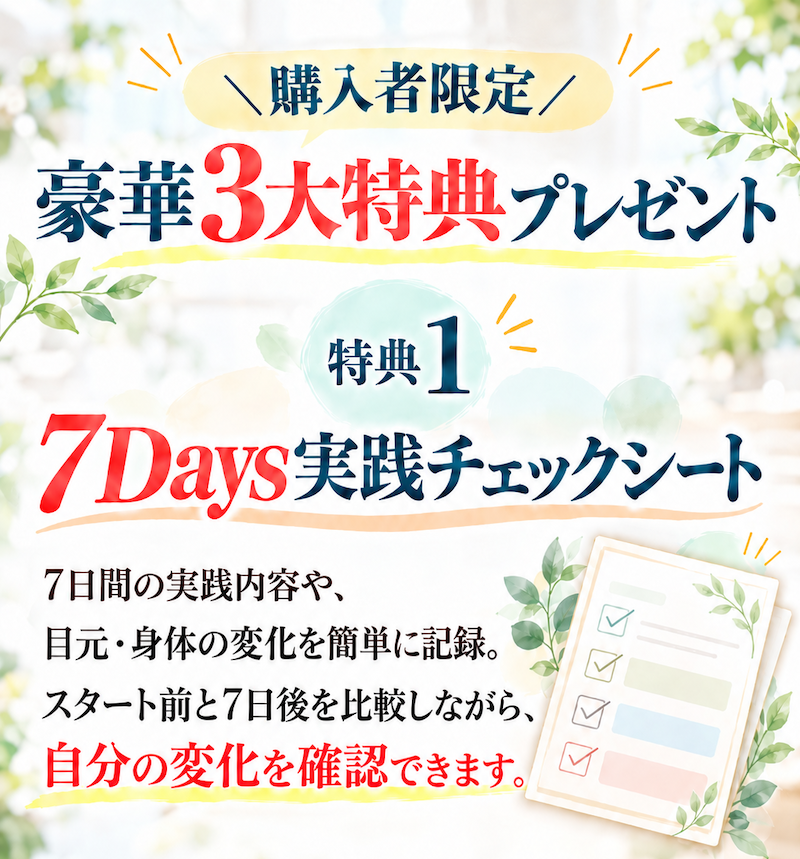
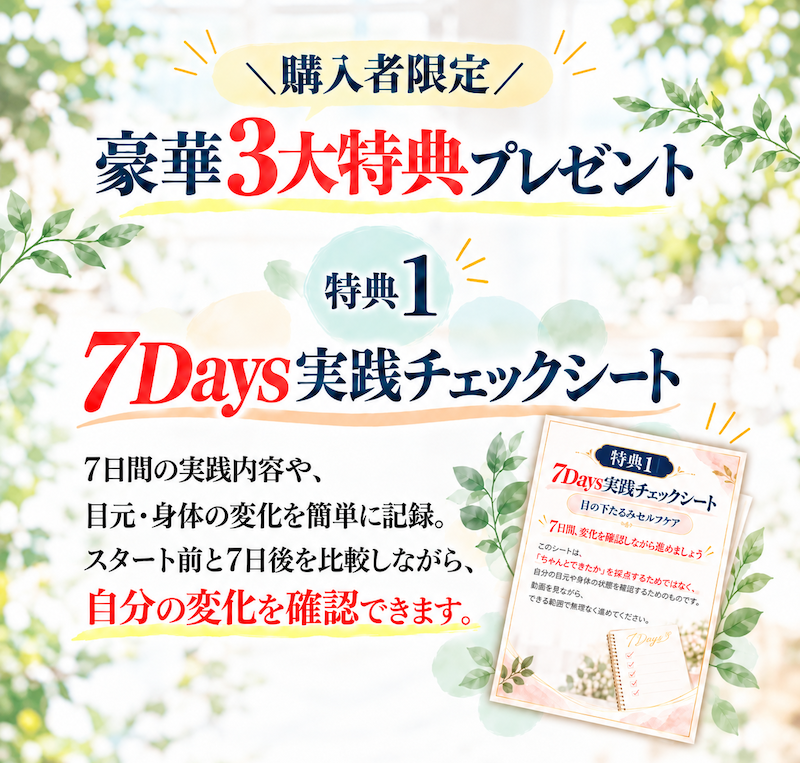
特典1〜3を、新しいLP素材に差し替える。

diff --git a/me-tarumi-sp.html b/me-tarumi-sp.html
@@ -1115,9 +1115,9 @@
         <a class="cta-image" href="REPLACE_WITH_CHECKOUT_URL">
           <img src="assets/me-tarumi/cta-price.png" alt="今すぐ7日間プログラムを始める" width="800" height="267" />
         </a>
-        <img src="assets/me-tarumi/bonus-1.png" alt="購入者限定 豪華3大特典プレゼント。特典1 7Days実践チェックシート。" width="800" height="859" loading="lazy" style="width:calc(100% + 2 * var(--wrap-pad));max-width:none;margin-left:calc(-1 * var(--wrap-pad));" />
-        <img src="assets/me-tarumi/bonus-2.png" alt="特典2 朝・夜セルフケア早見表。" width="800" height="655" loading="lazy" style="width:calc(100% + 2 * var(--wrap-pad));max-width:none;margin-left:calc(-1 * var(--wrap-pad));" />
-        <img src="assets/me-tarumi/bonus-3.png" alt="特典3 ビフォーアフター撮影ガイド。" width="800" height="582" loading="lazy" style="width:calc(100% + 2 * var(--wrap-pad));max-width:none;margin-left:calc(-1 * var(--wrap-pad));" />
+        <img src="assets/me-tarumi/bonus-1.png" alt="購入者限定 豪華3大特典プレゼント。特典1 7Days実践チェックシート。7日間の実践内容や、目元・身体の変化を簡単に記録。スタート前と7日後を比較しながら、自分の変化を確認できます。" width="800" height="763" loading="lazy" style="width:calc(100% + 2 * var(--wrap-pad));max-width:none;margin-left:calc(-1 * var(--wrap-pad));" />
+        <img src="assets/me-tarumi/bonus-2.png" alt="特典2 朝・夜セルフケア早見表。今日はどのケアをやればいい？そんなときに、その日の状態に合わせて、本編のどのセルフケアを選べばいいかがひと目で分かる早見表です。" width="800" height="577" loading="lazy" style="width:calc(100% + 2 * var(--wrap-pad));max-width:none;margin-left:calc(-1 * var(--wrap-pad));" />
+        <img src="assets/me-tarumi/bonus-3.png" alt="特典3 ビフォーアフター撮影ガイド。明るさ・角度・距離など、比較しやすい撮影方法をまとめたガイド。7日間の変化を、写真で確認しやすくなります。" width="800" height="615" loading="lazy" style="width:calc(100% + 2 * var(--wrap-pad));max-width:none;margin-left:calc(-1 * var(--wrap-pad));" />
         <img class="phrase phrase--bonus" src="assets/me-tarumi/phrase-bonus-close.png" alt="7日間の実践を、もっと続けやすく、分かりやすく。" />
       </section>
 
